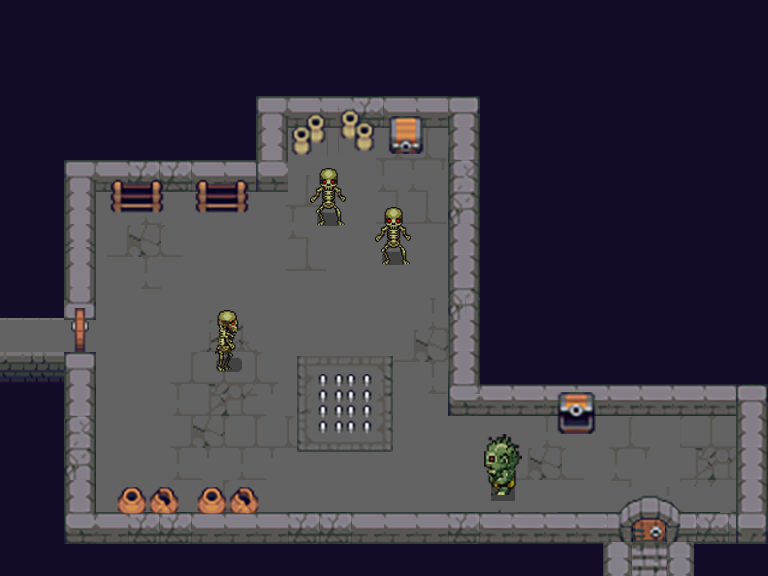
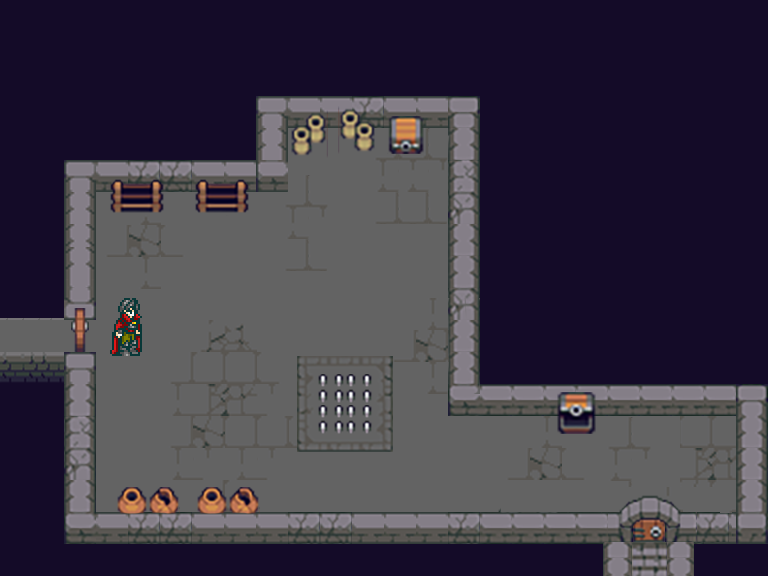
disallow click after clicking on an item, disallow click and remove enemy after clicking an enemy

diff --git a/css/styles.css b/css/styles.css
@@ -726,6 +726,7 @@
   position: relative;
   top: 86px;
   left: 155px;
+  background-image: url("../img/enemy1.png");
 }
 
 #room1-enemy1:hover {
@@ -738,6 +739,7 @@
   position: relative;
   top: 239px;
   left: 359px;
+  background-image: url("../img/enemy2.png");
 }
 
 #room1-enemy2:hover {
@@ -798,6 +800,7 @@
   position: relative;
   top: 249px;
   left: 205px;
+  background-image: url("../img/enemy3.png");
 }
 
 #room2-enemy3:hover {
@@ -810,6 +813,7 @@
   position: relative;
   top: 41px;
   left: 310px;
+  background-image: url("../img/enemy4.png");
 }
 
 #room2-enemy4:hover {
@@ -822,6 +826,7 @@
   position: relative;
   top: 15px;
   left: 373px;
+  background-image: url("../img/enemy5.png");
 }
 
 #room2-enemy5:hover {
@@ -834,6 +839,7 @@
   position: relative;
   top: 179px;
   left: 478px;
+  background-image: url("../img/enemy6.png");
 }
 
 #room2-enemy6:hover {

diff --git a/js/room.js b/js/room.js
@@ -41,11 +41,16 @@ function createItemClickEvents() {
   $("#room1-item1").click(function(){
     player.checkClickItem();
     alertRoom("You found a " + player.items[player.items.length - 1].name + ".");
+    $("#room1-item1").off("click");
+    $("#room1-item1").css({'cursor' : 'default'});
+
   });
 
   $("#room1-item2").click(function(){
     player.checkClickConsumable();
     alertRoom("You found a " + player.items[player.items.length - 1].name + ".");
+    $("#room1-item2").off("click");
+    $("#room1-item2").css({'cursor' : 'default'});
   });
 
   //Second Room

diff --git a/js/ui.js b/js/ui.js
@@ -397,6 +397,9 @@ $(document).ready(function() {
     alertRoom(enemyMap[enemyId].name + " is attacking you!");
     player.currentEnemy = enemyMap[enemyId];
     startBattle(player.currentEnemy)
+    $("#room" + player.room.id + "-enemy" + player.currentEnemy.id).off();
+    $("#room" + player.room.id + "-enemy" + player.currentEnemy.id).css({'background-image' : 'url("")'});
+    $("#room" + player.room.id + "-enemy" + player.currentEnemy.id).css({'cursor' : 'default'});
   });
 
   $("#attack").click(function() {
